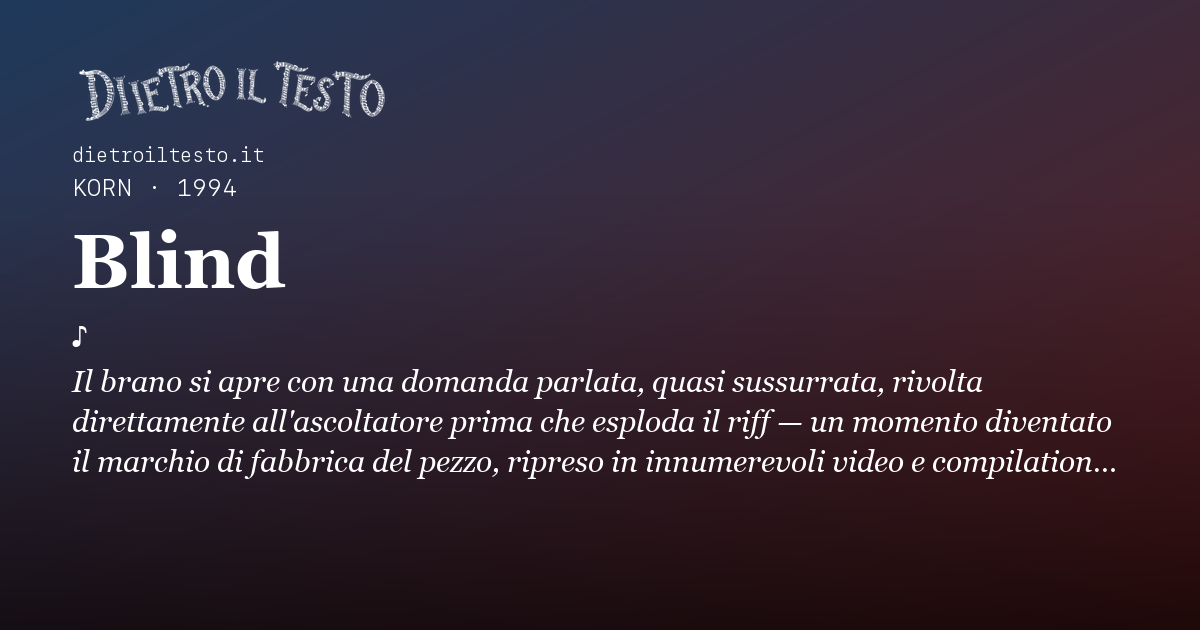
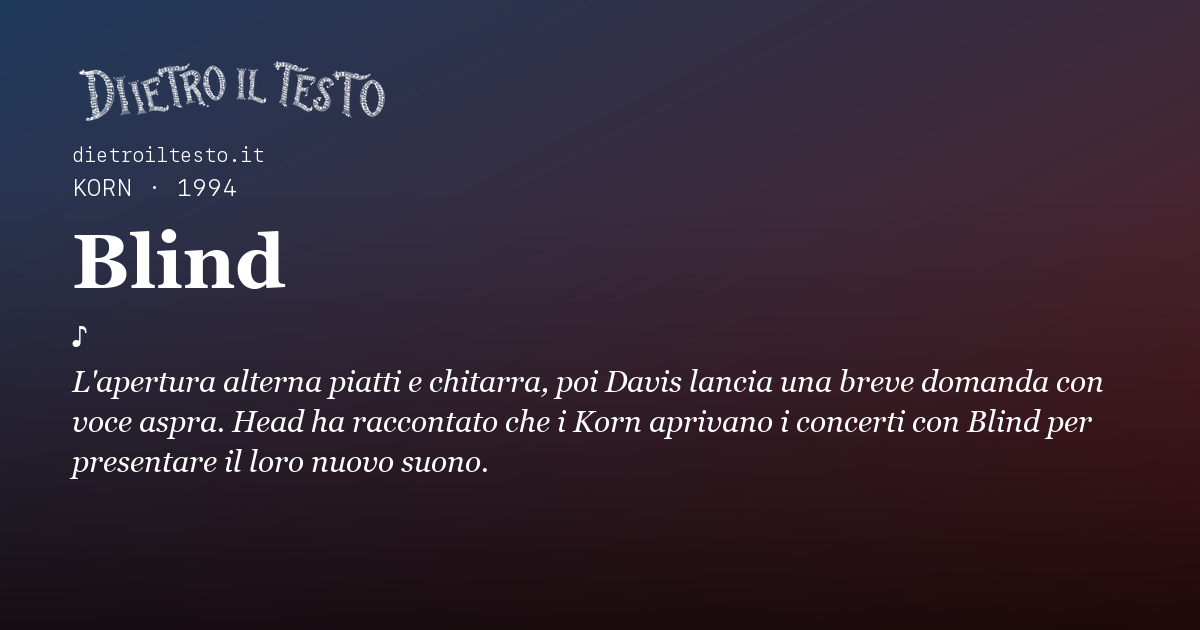
Correggi Blind e il collegamento alla versione in studio

Changed region(s): [[0.0617, 0.573, 0.925, 0.754]]

diff --git a/ROADMAP.md b/ROADMAP.md
@@ -4165,3 +4165,13 @@ Nella copia separata è stata riscritta la frase iconica a livello di funzione d
 Il proprietario ha scritto «applica e procedi» dopo aver visto la proposta del §30. Il commit `c2279c74` è stato integrato con avanzamento diretto in `main` locale. Rigenerato il sito: 26 file pubblicabili sono cambiati, fra cui la pagina della canzone, le anteprime collegate, l'indice di ricerca e le sitemap. Tutti i file del pacchetto generato coincidono byte per byte con quelli della cartella principale. Il file non tracciato `SEO-LASTMOD-2026-09-21.md` conserva lo stesso hash SHA-256 precedente.
 
 **Controlli:** `check-coerenza`, `check-seo`, `check-link`, `check-filtri`, `check-nature` e `git diff --check` passano. La verifica visiva desktop e mobile della pagina e dell'immagine condivisibile è documentata al §30. La modifica è nella cartella principale locale; non è stata inviata a GitHub né pubblicata online. Le correzioni di altre schede e le proposte di immagini restano in copie separate.
+
+## 34. Proposta separata: correzione di Blind, 1 ottobre 2026
+
+Il rapporto indipendente `rapporti/orario/20-blind.md` segnala un errore sostanziale nella scheda dei Korn: il testo attribuiva a *Blind* un riferimento alle anfetamine che [Metal Hammer](https://www.loudersound.com/features/korn-the-story-behind-the-song-blind-interview-1994) collega invece a *Ball Tongue*. Presentava inoltre Davis come autore originario del brano senza spiegare la disputa con i SexArt. Il collegamento al testo portava su Letras alla *demo version*, mentre la scheda e il lettore riguardano la versione dell'album del 1994.
+
+Nella copia separata sono stati riscritti storia e momento iconico, distinguendo le testimonianze di Davis, Shinn e Head riportate da Metal Hammer. Rimossi i dettagli musicali e il riferimento al 1992 non sufficientemente documentati, il tema «dipendenza» e il vecchio conteggio di ascolti collegato alla pagina generica di Kworb. Il collegamento ora porta alla [pagina Letras della versione in studio](https://www.letras.com/korn/21675/), riaperta e confrontata con il precedente URL che reindirizzava alla demo. Aggiunta una curiosità su Woodstock '99, corretta la descrizione SEO e nominata la fonte Metal Hammer con autore. La data `ultimaVerifica` resta invariata: questa è una correzione mirata, non un controllo integrale della scheda.
+
+**Verifica.** Rigenerati il sito e `og/blind.png`; l'immagine condivisibile è stata ispezionata a risoluzione originale e il testo non è troncato. L'anteprima della pagina è stata controllata a 1280 e 390 px: titolo, descrizione, fonti e collegamento al testo sono corretti, non c'è scorrimento orizzontale né errori di console. Passano `check-coerenza`, `check-seo`, `check-link`, `check-attribuzioni --tutte` e `git diff --check`; il controllo delle attribuzioni lascia 30 avvisi informativi preesistenti su altre schede. Il catalogo resta di 317 canzoni e 104 artisti.
+
+**Stato:** proposta locale isolata in `codex/correzione-blind-2026-10-01`, pronta per la revisione del proprietario. Nessun trasferimento nella cartella principale, push o pubblicazione. Le altre copie in revisione e il lavoro dell'altra AI restano separati.
